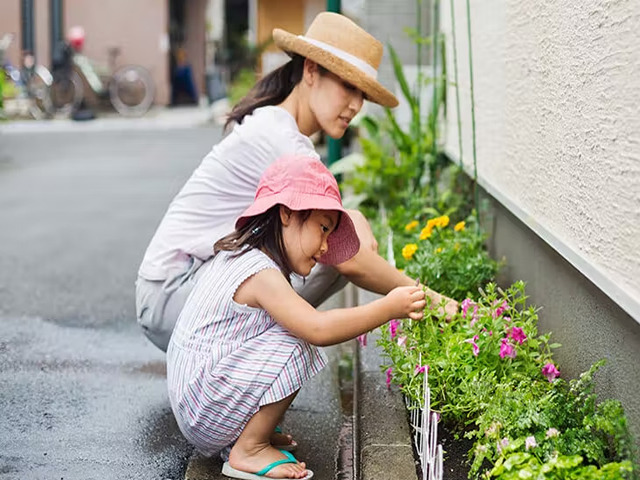
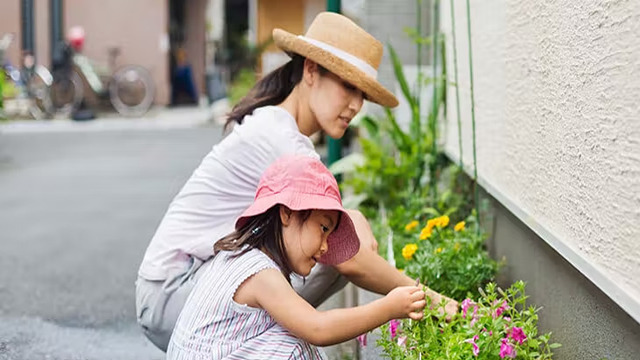
convert img 640 by 360

diff --git a/src/data.js b/src/data.js
@@ -36,7 +36,7 @@ let projects = [
       {tag: "health", type: ""},
       {tag: "relatable", type: ""}
     ],
-    image: require("./images/colgate.png"),
+    image: require("./images/braces-640.360.jpg"),
     snippet: "Colgate® used a content strategy to make the oral health line more relatable and trustworthy. What the do especially well is offering authoritative information and product information in one place.",
     excerpt: "[T]here are actions you can take to prevent bad breath the next time you're under pressure from a first date, a job interview, an important meeting, giving a speech at the Oscars, or your next rocket launch (while wearing a space helmet, good breath is imperative). So sit back, relax, and calm those nerves, because we have a few tips and tricks that may be able to help you.",
     url0: "https://www.colgate.com/en-us/oral-health/bad-breath/how-to-help-bad-breath-go-away-under-stress",
